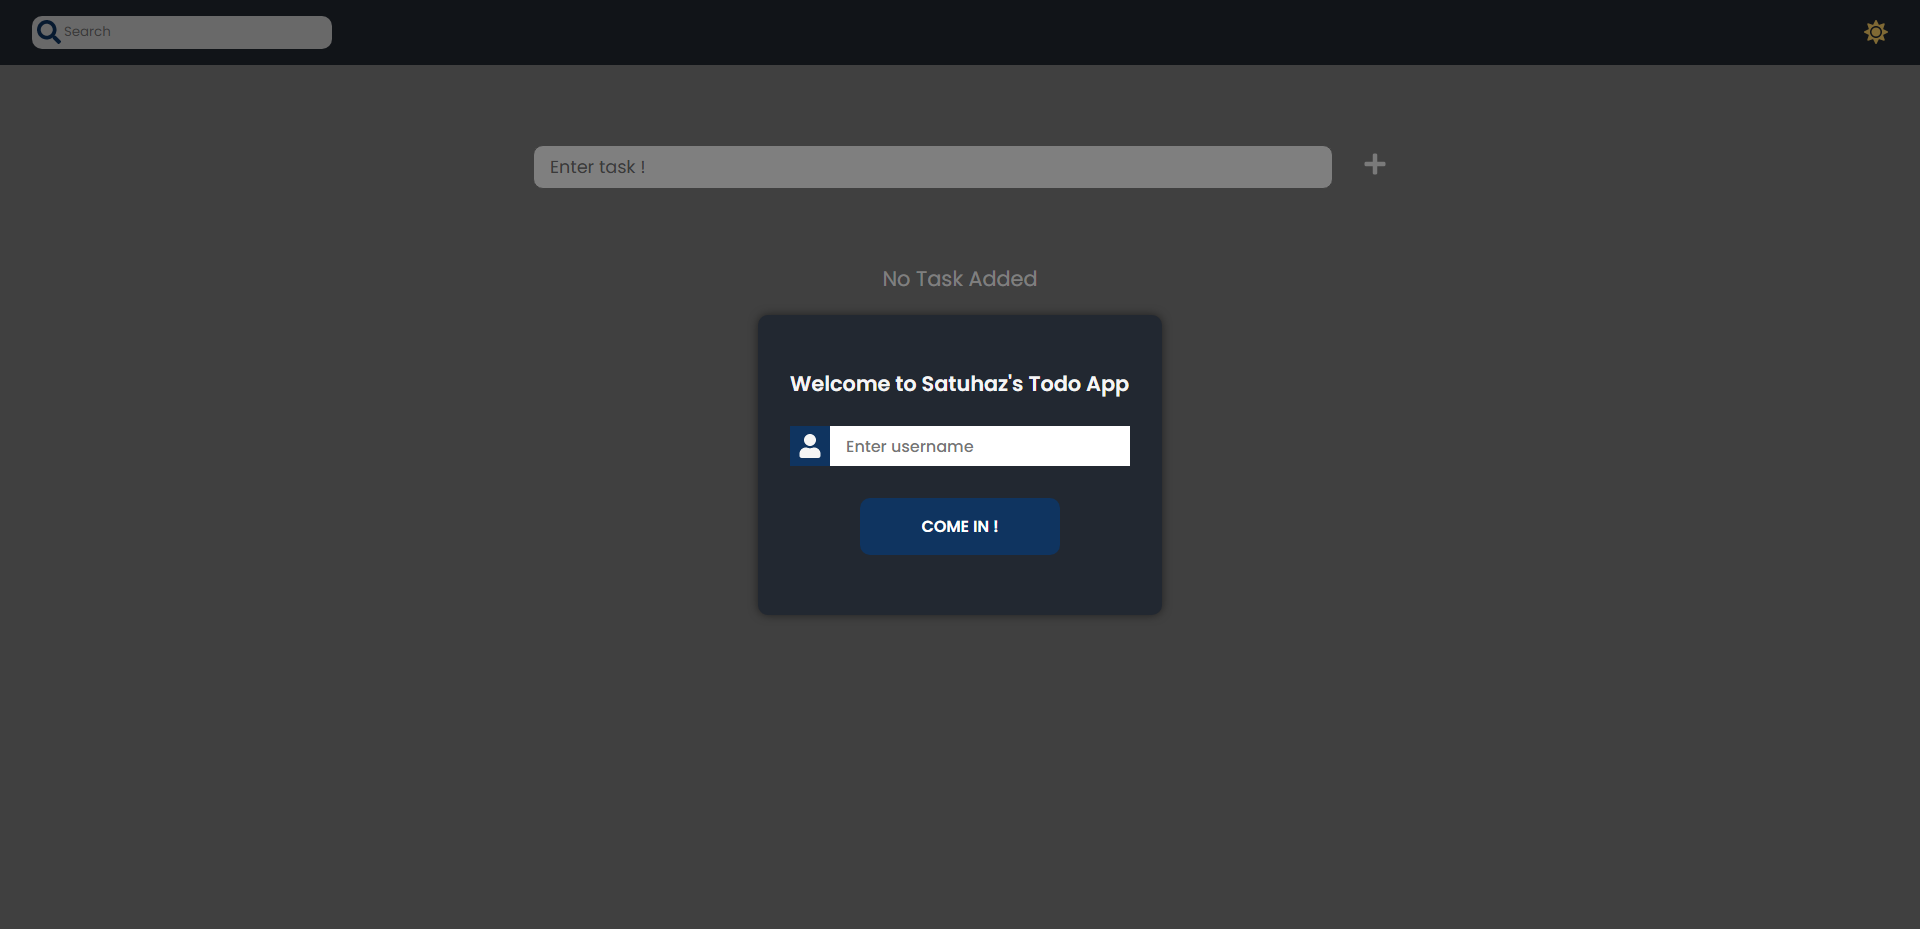
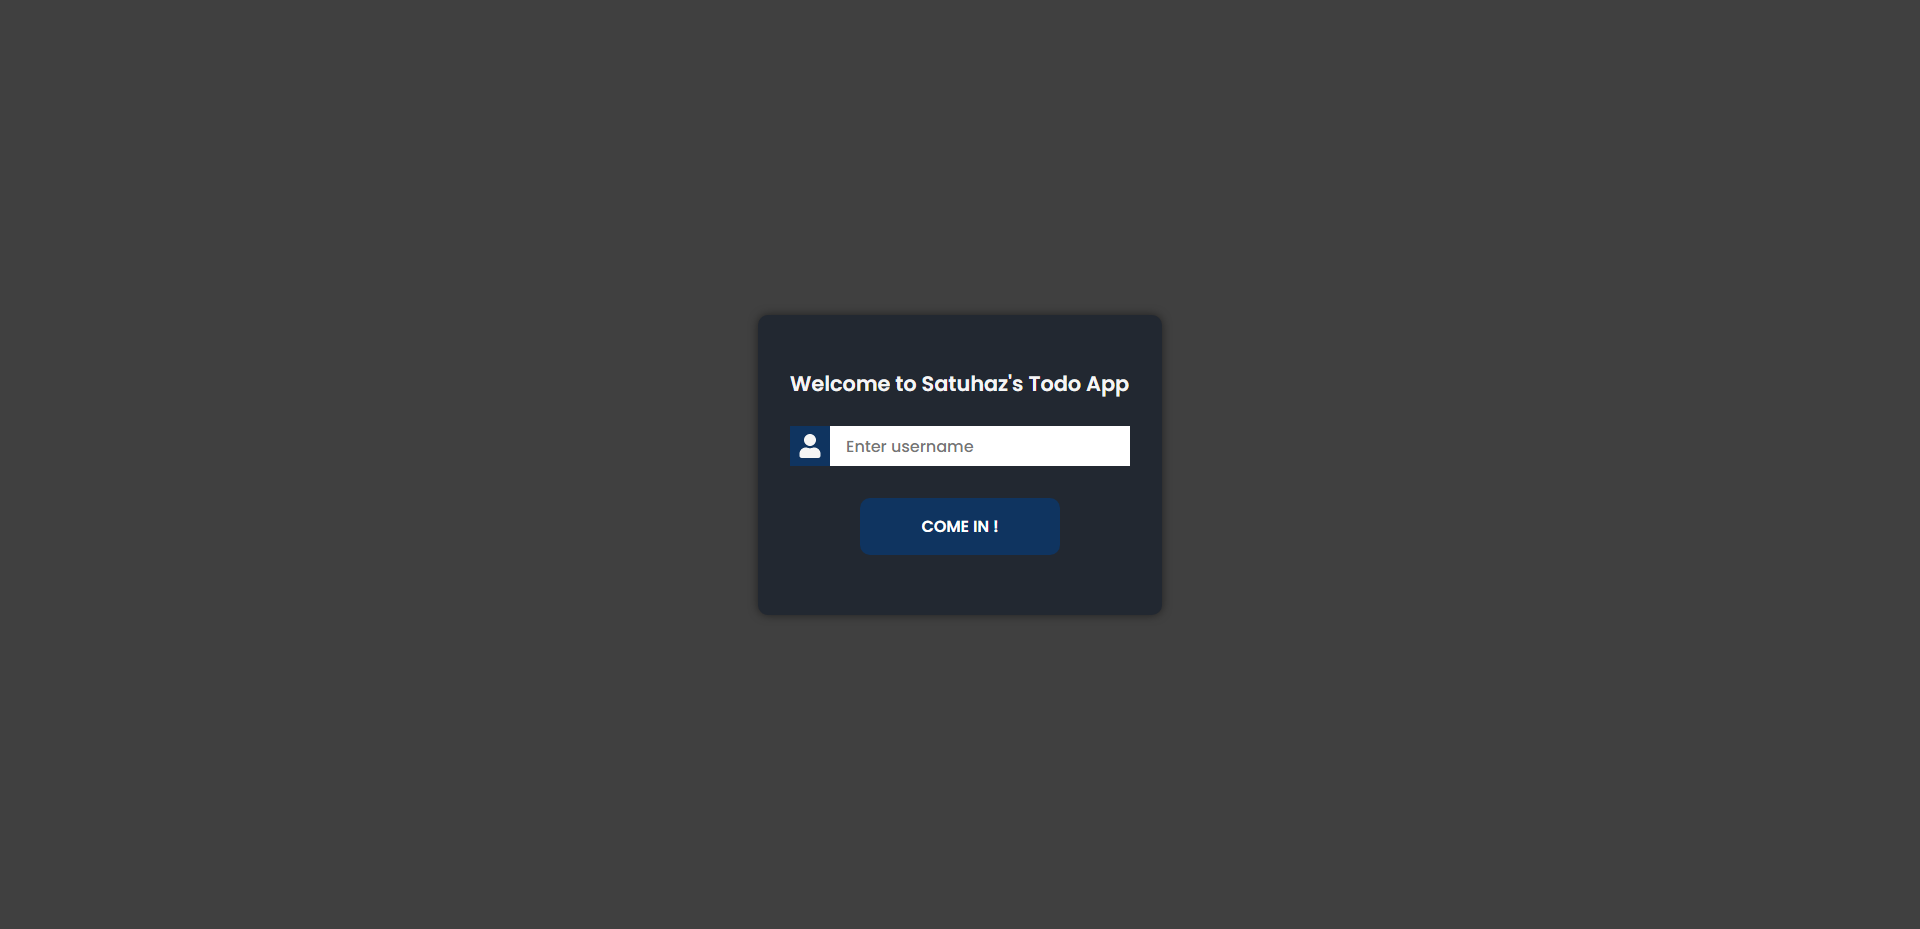
docs:readMe screenshots updated

Changed region(s): [[0.0, 0.0, 1.0, 0.0936], [0.2812, 0.1561, 0.7188, 0.2185], [0.4688, 0.2809, 0.5312, 0.3122]]

diff --git a/src/style/base/_root.scss b/src/style/base/_root.scss
@@ -14,7 +14,7 @@ html {
 body,
 .app {
   font-family: "Poppins", sans-serif !important;
-  background-color: $white2;
+  background-color: $white;
   height: 100%;
   min-height: 100vh;
   width: 100%;
